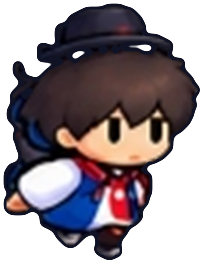
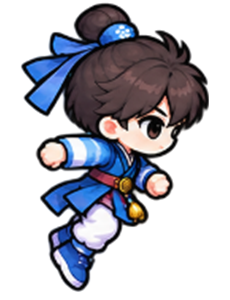
Add 5s broken umbrella lockout and replace Hanbok Boy with 27 HD sprites

diff --git a/js/game.js b/js/game.js
@@ -83,7 +83,7 @@
     return `${utc.getUTCFullYear()}-W${String(weekNo).padStart(2, '0')}`;
   }
 
-  const ASSET_VER = '20261121hd45';
+  const ASSET_VER = '20261121hd46';
 
   function haptic(ms = 10) {
     if (typeof navigator !== 'undefined' && navigator.vibrate) {
@@ -2974,7 +2974,7 @@
   // ===================== RUNNER ENGINE (WEATHER PHYSICS + GEAR + CORONA EVENT) =====================
   const GEAR_DURATION = 10.0;
   const MASK_PARRY_WINDOW = 1.85;
-  const UMBRELLA_BROKEN_CD = 0.85;
+  const UMBRELLA_BROKEN_CD = 5.0;
   const COVID_WALKER_PRESET = {
     id: 'covid_walker',
     name: '코로나 확진자',
@@ -3184,6 +3184,11 @@
 
   function toggleUmbrella() {
     if (!run || !run.active || paused) return;
+    if (run.umbrellaBrokenTimer > 0) {
+      SFX.hit();
+      Renderer.spawnFloater(`우산 파손! ${Math.ceil(run.umbrellaBrokenTimer)}초간 사용 불가`, '#ff9e9e', run.playerX + 10, run.playerY - 42);
+      return;
+    }
 
     if (run.umbrellaOn) {
       const foldedForGust = run.weatherEvent === 'gust';
@@ -3204,7 +3209,6 @@
     } else {
       run.umbrellaOn = true;
       run.umbrellaActiveTimer = GEAR_DURATION;
-      run.umbrellaBrokenTimer = 0;
       run.rainExposeTimer = 0;
       run.gustExposeTimer = 0;
       SFX.click();
@@ -3235,8 +3239,8 @@
     SFX.umbrellaBreak();
     run.hp = Math.max(0, run.hp - 1);
     run.lastHitCause = `${run.year}년 차 ${DATA.SEASONS[run.seasonIdx].name}, 강풍 속에 우산을 접지 않아 뒤집혀 쓰러졌습니다!`;
-    Renderer.spawnFloater('강풍에 우산 파손!! -1 ❤', '#ff5c5c', run.playerX + 16, run.playerY - 48);
-    showRunBanner('💨 돌풍에 우산이 뒤집혔습니다!! (-1 ❤)', 2200);
+    Renderer.spawnFloater(`강풍에 우산 파손!! -1 ❤ (${UMBRELLA_BROKEN_CD}초 불가)`, '#ff5c5c', run.playerX + 16, run.playerY - 48);
+    showRunBanner(`💨 돌풍에 우산이 뒤집혔습니다!! (${UMBRELLA_BROKEN_CD}초간 사용 불가 · -1 ❤)`, 2200);
   }
 
   function toggleMask() {
@@ -4527,14 +4531,17 @@
       el.mudOverlay.classList.add('hidden');
     }
 
-    // Umbrella & Mask Toggle Buttons (Zero Cooldown · 10s Live Countdown + Urgent Visual Pulse)
+    // Umbrella & Mask Toggle Buttons (Zero Cooldown · 10s Live Countdown · 5s Broken Lockout)
     const umbBroken = run.umbrellaBrokenTimer > 0;
     el.btnToggleUmbrella.classList.toggle('on', run.umbrellaOn);
     el.btnToggleUmbrella.classList.toggle('broken', umbBroken);
     el.btnToggleUmbrella.classList.remove('cooldown');
     el.btnToggleUmbrella.classList.toggle('urgent-fold', needFoldUmb);
     el.btnToggleUmbrella.classList.toggle('urgent-open', needOpenUmb && !umbBroken);
-    if (needFoldUmb) {
+    if (umbBroken) {
+      el.gearUmbrellaState.textContent = `파손 ${Math.ceil(run.umbrellaBrokenTimer)}s`;
+      el.gearUmbrellaBar.style.width = `${((run.umbrellaBrokenTimer / UMBRELLA_BROKEN_CD) * 100).toFixed(1)}%`;
+    } else if (needFoldUmb) {
       const rem = Math.max(0, gustLimit - (run.gustExposeTimer || 0));
       el.gearUmbrellaState.textContent = `접기! ${rem.toFixed(1)}s`;
       el.gearUmbrellaBar.style.width = `${Math.min(100, ((run.gustExposeTimer || 0) / gustLimit) * 100).toFixed(1)}%`;

diff --git a/index.html b/index.html
@@ -13,7 +13,7 @@
   <link rel="apple-touch-icon" sizes="180x180" href="assets/icons/apple-touch-icon-180.png?v=20261121hd21" />
   <link rel="manifest" href="manifest.json?v=20261121hd21" />
   <title>한국 날씨에서 살아남기</title>
-  <link rel="stylesheet" href="style.css?v=20261121hd45" />
+  <link rel="stylesheet" href="style.css?v=20261121hd46" />
 </head>
 <body>
   <div id="mobile-app">
@@ -826,11 +826,11 @@
   <!-- Official Firebase Auth SDK (Google Real OAuth) -->
   <script src="https://www.gstatic.com/firebasejs/10.14.1/firebase-app-compat.js"></script>
   <script src="https://www.gstatic.com/firebasejs/10.14.1/firebase-auth-compat.js"></script>
-  <script src="js/data.js?v=20261121hd45"></script>
+  <script src="js/data.js?v=20261121hd46"></script>
   <script src="js/audio.js?v=20261121hd9"></script>
-  <script src="js/online.js?v=20261121hd45"></script>
-  <script src="js/renderer.js?v=20261121hd45"></script>
-  <script src="js/game.js?v=20261121hd45"></script>
+  <script src="js/online.js?v=20261121hd46"></script>
+  <script src="js/renderer.js?v=20261121hd46"></script>
+  <script src="js/game.js?v=20261121hd46"></script>
   <script>
     if ('serviceWorker' in navigator && (location.protocol === 'https:' || location.hostname === 'localhost')) {
       window.addEventListener('load', () => {

diff --git a/js/renderer.js b/js/renderer.js
@@ -12,7 +12,7 @@ window.RunRenderer = (function () {
   const CHAR_SHEET_SKINS = [
     { id: 'yellow', frames: 3, runFrames: 8 },
     { id: 'blue', frames: 3, runFrames: 8 },
-    { id: 'hanbok', frames: 2 },
+    { id: 'hanbok', frames: 3, runFrames: 8 },
     { id: 'skier', frames: 2 },
     { id: 'santa', frames: 2 },
     { id: 'catgirl', frames: 4, runFrames: 8 }
@@ -48,7 +48,7 @@ window.RunRenderer = (function () {
   ];
 
   const sprites = {};
-  const CHAR_ASSET_VER = '20261121hd45';
+  const CHAR_ASSET_VER = '20261121hd46';
   const CHEST_TIERS = ['wood', 'silver', 'gold', 'diamond'];
 
   CHEST_TIERS.forEach((tier) => {
@@ -1012,9 +1012,9 @@ window.RunRenderer = (function () {
         ctx.drawImage(umbSpr, Math.floor(cx - uw / 2 + 8), Math.floor(uy - 24), uw, uh);
       }
       ctx.restore();
-    } else if (!dead && umbrellaBrokenTimer > 0 && umbSpr) {
+    } else if (!dead && umbrellaBrokenTimer > 4.25 && umbSpr) {
       // Crisp flipped real umbrella sprite flying backward when snapped by typhoon!
-      const prog = Math.max(0, Math.min(1, 1 - umbrellaBrokenTimer / 0.85));
+      const prog = Math.max(0, Math.min(1, (5.0 - umbrellaBrokenTimer) / 0.75));
       const uy = cy - scaleHeight - 10 - prog * 34;
       const ux = cx + 6 - prog * 46;
       const uh = 40;

diff --git a/js/data.js b/js/data.js
@@ -133,8 +133,9 @@ window.RUN_DATA = (function () {
       icon: '🎩',
       spriteKey: 'hanbok_idle_0',
       animSkin: 'hanbok',
-      animFrames: 2,
-      avatar: 'assets/chars/port_hanbok.png?v=20261121hd9',
+      animFrames: 3,
+      runFrames: 8,
+      avatar: 'assets/chars/port_hanbok.png?v=20261121hd46',
       auraType: 'hanbok',
       price: 650,
       baseHp: 5,

diff --git a/sw.js b/sw.js
@@ -1,4 +1,4 @@
-const CACHE_NAME = 'k-weather-survival-v20261121hd45';
+const CACHE_NAME = 'k-weather-survival-v20261121hd46';
 const CORE_ASSETS = [
   './',
   './index.html',
